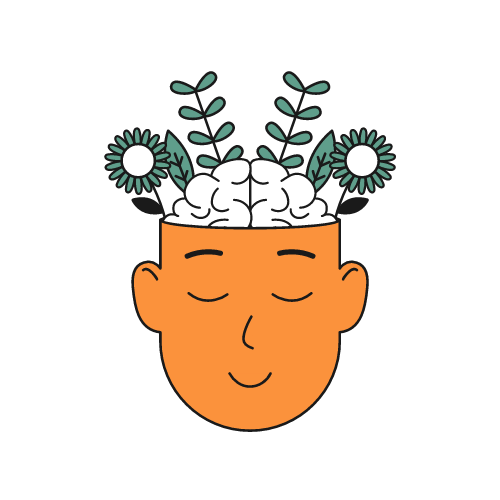
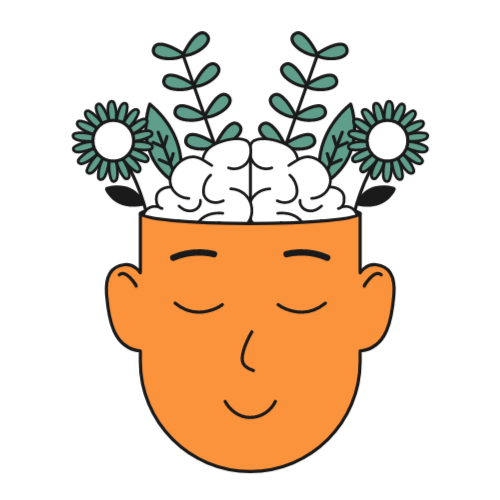
more divs added to landing page and some theme changes on footer/nav

diff --git a/ghi/src/MainPage.js b/ghi/src/MainPage.js
@@ -3,26 +3,74 @@ import { Link } from "react-router-dom";
 
 function MainPage(){
     return (
-        <>
-            <h1 className='text-center pt-10 text-5xl'>welcome to mooditor!</h1>
-            <div className="flex flex-wrap">
+        <div className="min-h-screen">
+            <h1 className='text-center mt-14 text-5xl'>welcome to mooditor!</h1>
+            <div className="flex flex-wrap my-8 mx-4">
                 <div className="w-full md:w-1/3 flex items-center">
-                    <img className="align-top h-auto" src="img/brain.png" alt="people talking" />
+                    <img className="align-top h-96 flex-shrink-0" src="img/brainGif2.gif" alt="people talking"/>
                 </div>
-                <div className="w-full md:w-2/3">
-                    <div className=' h-96 mt-12 mx-12 bg-orange-200 text-black py-2 px-4 rounded items-start'>
-                    <h2 className="text-3xl text-center pt-5 mt-5">who we are</h2>
-                    <p className="text-m text-center m-10 mx-16">Lorem ipsum dolor sit amet, velit definitiones definitionem eu his, at oratio persius dissentiet nam. Habemus abhorreant cum in, summo fabellas ei vim, nam ea facilis erroribus corrumpit. Mel eius </p>
+                <div className="w-full md:w-2/3 flex items-center">
+                    <div className=' h-96 mt-12 bg-orange-200 rounded-md text-black items-start max-w-screen-lg mx-auto px-8'>
+                    <h2 className="text-3xl text-center pt-8 mt-5 underline underline-offset-4 decoration-2">who we are</h2>
+                    <p className="text-m text-center m-10">Lorem ipsum dolor sit amet, velit definitiones definitionem eu his, at oratio persius dissentiet nam. Habemus abhorreant cum in, summo fabellas ei vim, nam ea facilis erroribus corrumpit. Mel eius Lorem ipsum dolor sit amet, velit definitiones definitionem eu his, at oratio persius dissentiet nam. Habemus abhorreant cum in, summo fabellas ei vim, nam ea facilis erroribus corrumpit. Mel eius</p>
                         <div className="flex justify-center items-center">
                         <Link to="signup">
-                            <button className="bg-orange-400 transition ease-in-out delay-150 hover:ring-2 ring-black text-black py-2 px-4 rounded-full">create an account</button>
+                            <button className="bg-orange-400 hover:ring-2 hover:-translate-y-2 ring-black text-black py-5 px-4 rounded-full font-bold">create an account</button>
                         </Link>
                         </div>
                     </div>
                 </div>
             </div>
-        </>
+            <div className="bg-black h-1 my-24"></div>
+                <div className="text-center text-4xl mb-8">what you'll find</div>
+                <div className="flex flex-col justify-center  md:flex-row md:justify-center md:items-stretch text-xl">
+                    <div className="flex items-center flex-col md:mx-20 py-8 hover:-translate-y-5">
+                        <div className="w-64 h-64 bg-teal-700 rounded-full"></div>
+                        <div className="mt-14 text-center">track how you are feeling</div>
+                    </div>
+                    <div className="flex items-center flex-col mx-4 md:mx-20 py-8 hover:-translate-y-5">
+                        <div className="w-64 h-64 bg-teal-700 rounded-full"></div>
+                        <div className="mt-14 text-center">set daily goals</div>
+                    </div>
+                    <div className="flex items-center flex-col mx-4 md:mx-20 py-8 hover:-translate-y-5">
+                        <div className="w-64 h-64 bg-teal-700 rounded-full"></div>
+                        <div className="mt-14 text-center">reflect on your day</div>
+                    </div>
+                </div>
+            <div className="bg-black h-1 my-24"></div>
+                <div className="text-center text-4xl mb-8 my-28">mindful creators</div>
+                <div className="bg-orange-200 rounded-md p-16 mx-16">
+                    <div className="flex flex-col justify-center md:flex-row md:justify-center md:items-stretch text-xl mt-4">
+                        <div className="flex items-center flex-col mx-4 md:mx-10 md:my-0 my-4 hover:-translate-y-5">
+                            <div className="w-52 h-52 bg-teal-700 rounded-full border-2 border-black"></div>
+                            <div className="mt-10 font-bold text-center">Sofia Uribe</div>
+                            <div className="mt-2 text-center text-base">Software Engineer</div>
+                        </div>
+                        <div className="flex items-center flex-col mx-4 md:mx-10 md:my-0 my-4 hover:-translate-y-5">
+                            <div className="w-52 h-52 bg-teal-700 rounded-full border-2 border-black"></div>
+                            <div className="mt-10 font-bold text-center">Jackie Liu</div>
+                            <div className="mt-2 text-center text-base">Software Engineer</div>
+                        </div>
+                        <div className="flex items-center flex-col mx-4 md:mx-10 md:my-0 my-4 hover:-translate-y-5">
+                            <div className="w-52 h-52 bg-teal-700 rounded-full border-2 border-black"></div>
+                            <div className="mt-10 font-bold text-center">Terence Wong</div>
+                            <div className="mt-2 text-center text-base">Software Engineer</div>
+                        </div>
+                        <div className="flex items-center flex-col mx-4 md:mx-10 md:my-0 my-4hover:-translate-y-5">
+                            <div className="w-52 h-52 bg-teal-700 rounded-full border-2 border-black"></div>
+                            <div className="mt-10 font-bold text-center">Brooke Crockett</div>
+                            <div className="mt-2 text-center text-base">Software Engineer</div>
+                        </div>
+                    </div>
+                </div>
+        </div>
     )
 }
 
 export default MainPage;
+
+            {/* <div className="my-28">
+                <div className="bg-orange-200 h-20 border-t-4 border-b-4 border-black">
+                    <div className="text-center text-4xl"></div>
+                </div>
+            </div> */}

diff --git a/ghi/src/Footer.js b/ghi/src/Footer.js
@@ -3,8 +3,8 @@ import { Link } from "react-router-dom";
 
 function Footer(){
     return (
-        <footer className="bg-emerald-700 text-center lg:text-left fixed bottom-0 w-full">
-            <div className="p-4 text-center text-black font-bold">
+        <footer className="bg-stone-50 text-center sticky bottom-0 w-full mt-8 transition-all duration-500 transform translate-y-full">
+            <div className="p-4 text-center text-black font-bold border-t-4 border-black">
                 © 2023 copyright mooditor
             </div>
         </footer>

diff --git a/ghi/src/Nav.js b/ghi/src/Nav.js
@@ -15,7 +15,7 @@ function Nav() {
   if (!token) {
     return (
       <nav className="px-4 py-4 text-2xl">
-        <div className="rounded-full border border-black flex justify-between items-center h-16 mx-auto bg-stone-50 ">
+        <div className="rounded-full border-2 border-black flex justify-between items-center h-16 mx-auto bg-stone-50 ">
           <h1>
             <img className="w-32 p-2 pl-4" src="img/mooditor.png" alt="logo" />
           </h1>
